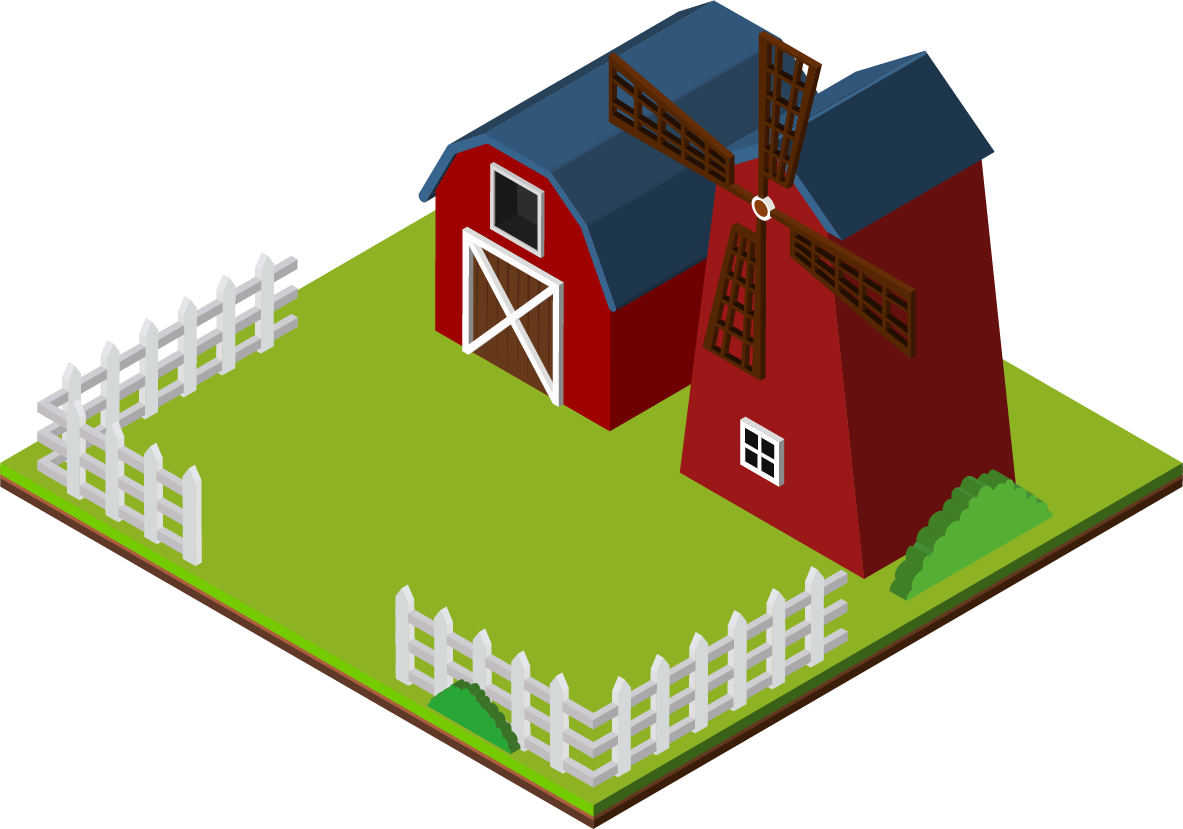
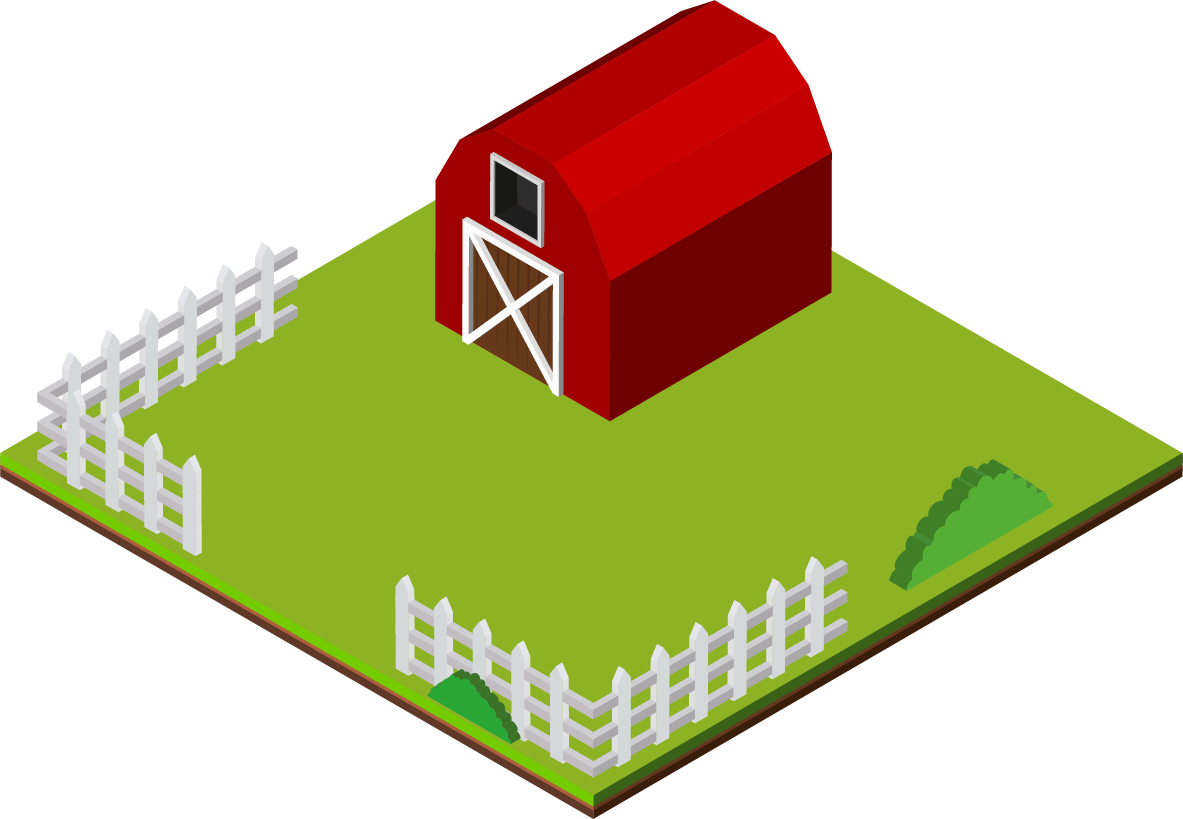
1.3
-Main buttons hide's before start animation.
-Cutted farmer's house on seperate images ( to take out in future house roof ).

diff --git a/js.js b/js.js
@@ -24,25 +24,31 @@ waterspan.onclick = function() {watermodal.style.display = "none";}
 //WATER FUNCTIONS
 $("#watop1").click(function() {
 	$("#watop1").prop('disabled', true).addClass("checked");
+	hideButtons();
 	watermodal.style.display = "none";
 	$(".blacksheep").animate({left: '250px'}, 5000, function() {
 		checkWaterButton();
+		showButtons();
 	});
 });
 
 $("#watop2").click(function() {
 	$("#watop2").prop('disabled', true).addClass("checked");
+	hideButtons();
 	watermodal.style.display = "none";
 	$(".blacksheep").animate({top: '250px'}, 5000, function() {
 		checkWaterButton();
+		showButtons();
 	});
 });
 
 $("#watop3").click(function() {
 	$("#watop3").prop('disabled', true).addClass("checked");
+	hideButtons();
 	watermodal.style.display = "none";
 	$(".blacksheep").animate({left: '350px'}, 5000, function() {
 		checkWaterButton();
+		showButtons();
 	});
 });
 
@@ -68,25 +74,31 @@ pestispan.onclick = function() {pestimodal.style.display = "none";}
 //PESTICIDES FUNCTIONS
 $("#pestiop1").click(function() {
 	$("#pestiop1").prop('disabled', true).addClass("checked");
+	hideButtons();
 	pestimodal.style.display = "none";
 	$(".farmer").animate({left: '250px'}, 5000, function() {
 		checkPestiButton();
+		showButtons();
 	});
 });
 
 $("#pestiop2").click(function() {
 	$("#pestiop2").prop('disabled', true).addClass("checked");
+	hideButtons();
 	pestimodal.style.display = "none";
 	$(".farmer").animate({top: '250px'}, 5000, function() {
 		checkPestiButton();
+		showButtons();
 	});
 });
 
 $("#pestiop3").click(function() {
 	$("#pestiop3").prop('disabled', true).addClass("checked");
+	hideButtons();
 	pestimodal.style.display = "none";
 	$(".farmer").animate({left: '350px'}, 5000, function() {
 		checkPestiButton();
+		showButtons();
 	});
 });
 
@@ -112,24 +124,30 @@ feltispan.onclick = function() {feltimodal.style.display = "none";}
 //FELTIRIZE FUNCTIONS
 $("#feltiop1").click(function() {
 	$(this).prop('disabled', true).addClass("checked");
+	hideButtons();
 	feltimodal.style.display = "none";
 	$(".dog").animate({left: '250px'}, 5000, function() {
 		checkFeltiButton();
+		showButtons();
 	});
 });
 $("#feltiop2").click(function() {
 	$(this).prop('disabled', true).addClass("checked");
+	hideButtons();
 	feltimodal.style.display = "none";
 	$(".milk").animate({top: '250px'}, 5000, function() {
 		checkFeltiButton();
+		showButtons();
 	});
 });
 
 $("#feltiop3").click(function() {
 	$(this).prop('disabled', true).addClass("checked");
+	hideButtons();
 	feltimodal.style.display = "none";
 	$(".hay").animate({left: '350px'}, 5000, function() {
 		checkFeltiButton();
+		showButtons();
 	});
 });
 
@@ -139,6 +157,18 @@ function checkFeltiButton() {
 	if (!$('#feltiop3').prop("disabled")){ feltimodal.style.display = "block"; }
 }
 //END OF PESTICIDES FUNCTIONS
+
+function hideButtons() {
+waterbtn.style.display = "none";
+pestibtn.style.display = "none";
+feltibtn.style.display = "none";
+}
+
+function showButtons() {
+waterbtn.style.display = "inline-block";
+pestibtn.style.display = "inline-block";
+feltibtn.style.display = "inline-block";
+}
 
 // SOUND PART
 

diff --git a/css.css b/css.css
@@ -66,31 +66,52 @@ position: absolute;
 }
 
 .blacksheep {
+  position: absolute;
   z-index: 55;
   left: 20%;
   top: 40%;
 }
+
+.roof {
+  position: absolute;
+  z-index: 48;
+  left: 11.5%;
+  top: -4.5%;
+}
+
+.mill {
+  position: absolute;
+  z-index: 49;
+  left: 35%;
+  top: -11%;
+}
+
 .dog {
+  position: absolute;
   z-index: 45;
   left: 45%;
   top: 50%;
 }
 .farmer {
+  position: absolute;
   z-index: 50;
   left: 45%;
   top: 35%;
 }
 .hay {
+  position: absolute;
   z-index: 40;
   left: 20%;
   top: 23%;
 }
 .milk {
+  position: absolute;
   z-index: 60;
   left: 53%;
   top: 50%;
 }
 .sheep {
+  position: absolute;
   z-index: 65;
   left: 40%;
   top: 58%;
@@ -121,8 +142,6 @@ button:disabled {
 
 button {
   width: 150px;
-  text-align: center;
-  /*display:block;*/
   margin: 10px 25px 10px 25px;
   background-color: #4CAF50; /* Green */
     border: none;

diff --git a/game.html b/game.html
@@ -17,6 +17,8 @@
 		<img class="hay" src="img/hay.png" alt="">
 		<img class="milk" src="img/milk.png" alt="">
 		<img class="sheep" src="img/sheep.png" alt="">
+		<img class="roof" src="img/roof.png" alt="">
+		<img class="mill" src="img/mill.png" alt="">
 	</div>
 	<div class="right-buttons">
 			<button id="water">Add water</button>
